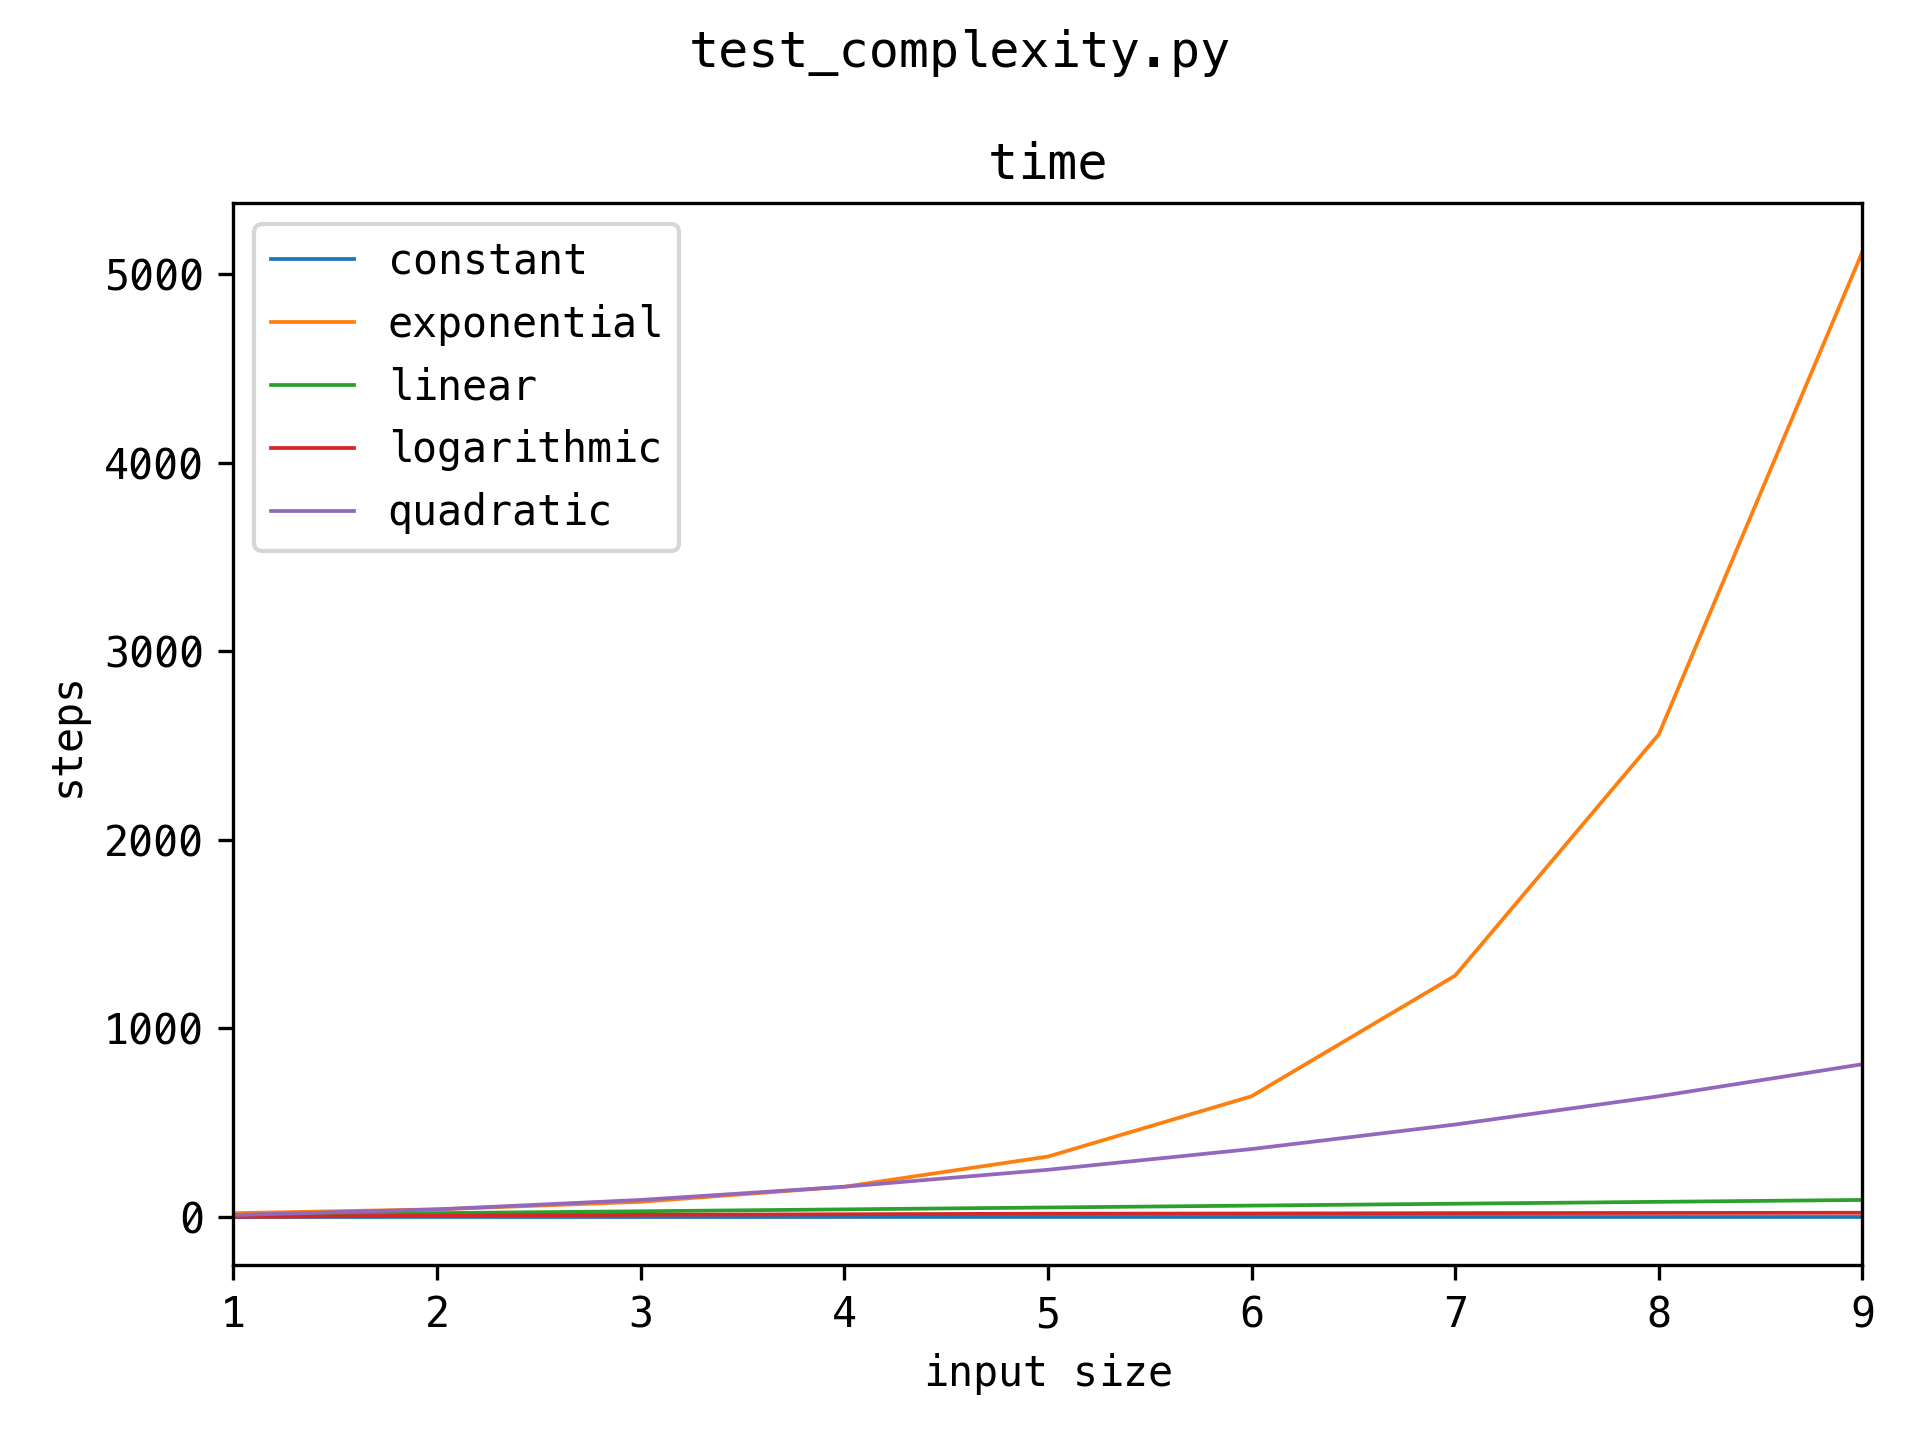
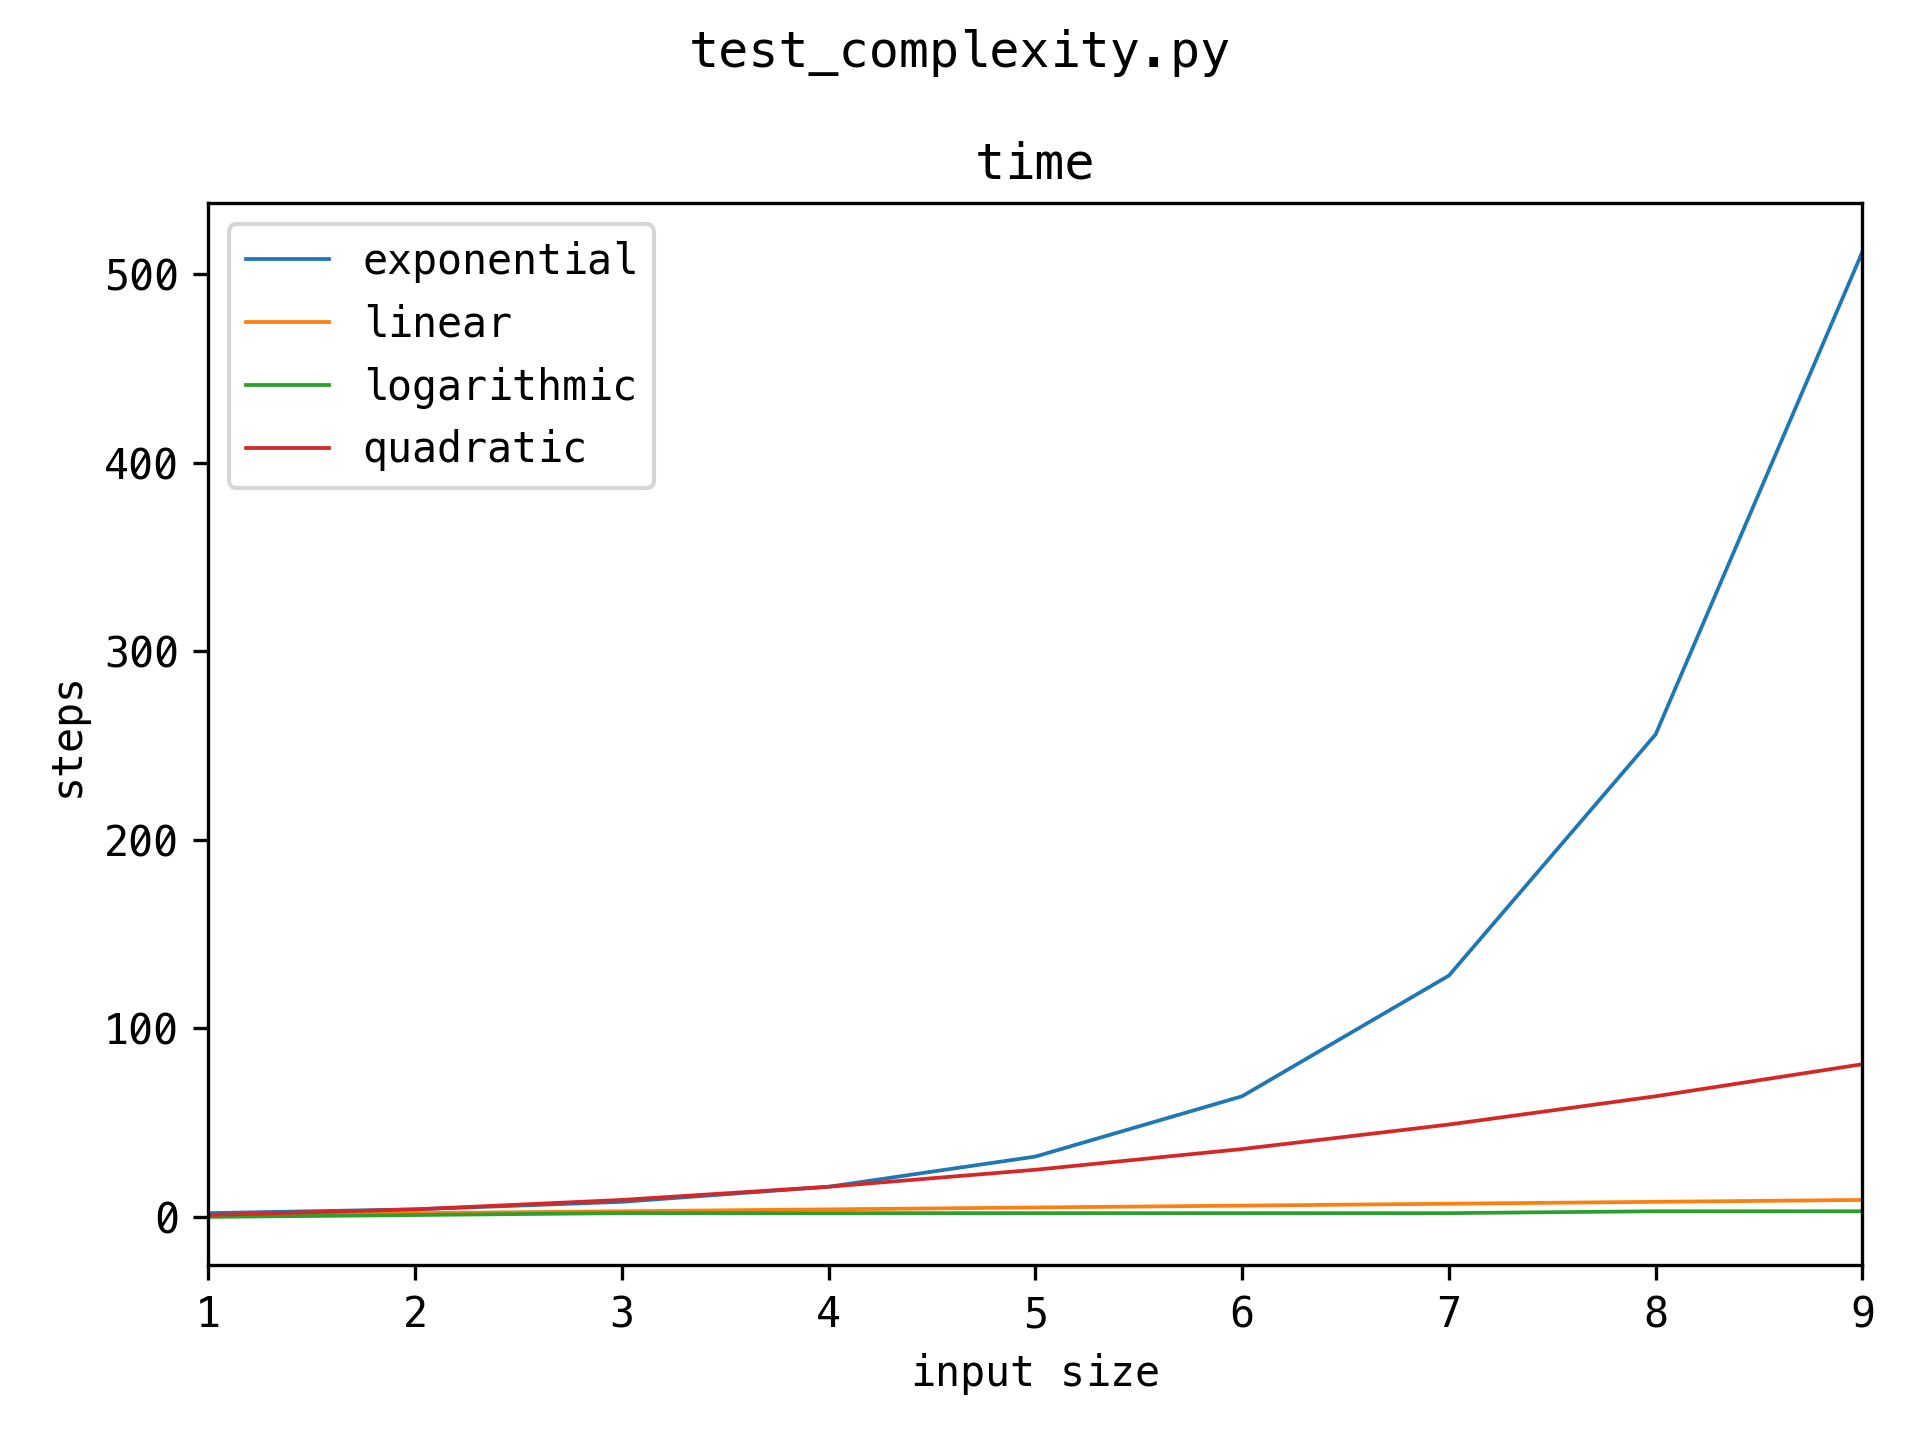
Remove range.py

diff --git a/src/uncategorized/test_complexity.py b/src/uncategorized/test_complexity.py
@@ -1,26 +1,25 @@
 import math
 
+import numpy as np
+
 from .. import utils
 
 
 class Solution(utils.BaseSolution):
-    def constant(self, n: int):
-        pass
-
     def logarithmic(self, n: int):
-        for _ in utils.strange(math.log(n)):
+        for _ in np.arange(0, math.log(n)):
             self.complexity.step()
 
     def linear(self, n: int):
-        for _ in utils.strange(n):
+        for _ in np.arange(0, n):
             self.complexity.step()
 
     def quadratic(self, n: int):
-        for _ in utils.strange(n**2):
+        for _ in np.arange(0, n**2):
             self.complexity.step()
 
     def exponential(self, n: int):
-        for _ in utils.strange(2**n):
+        for _ in np.arange(0, 2**n):
             self.complexity.step()
 
 

diff --git a/src/utils/__init__.py b/src/utils/__init__.py
@@ -1,3 +1,2 @@
 from .base_solution import *
 from .complexity import *
-from .range import *
